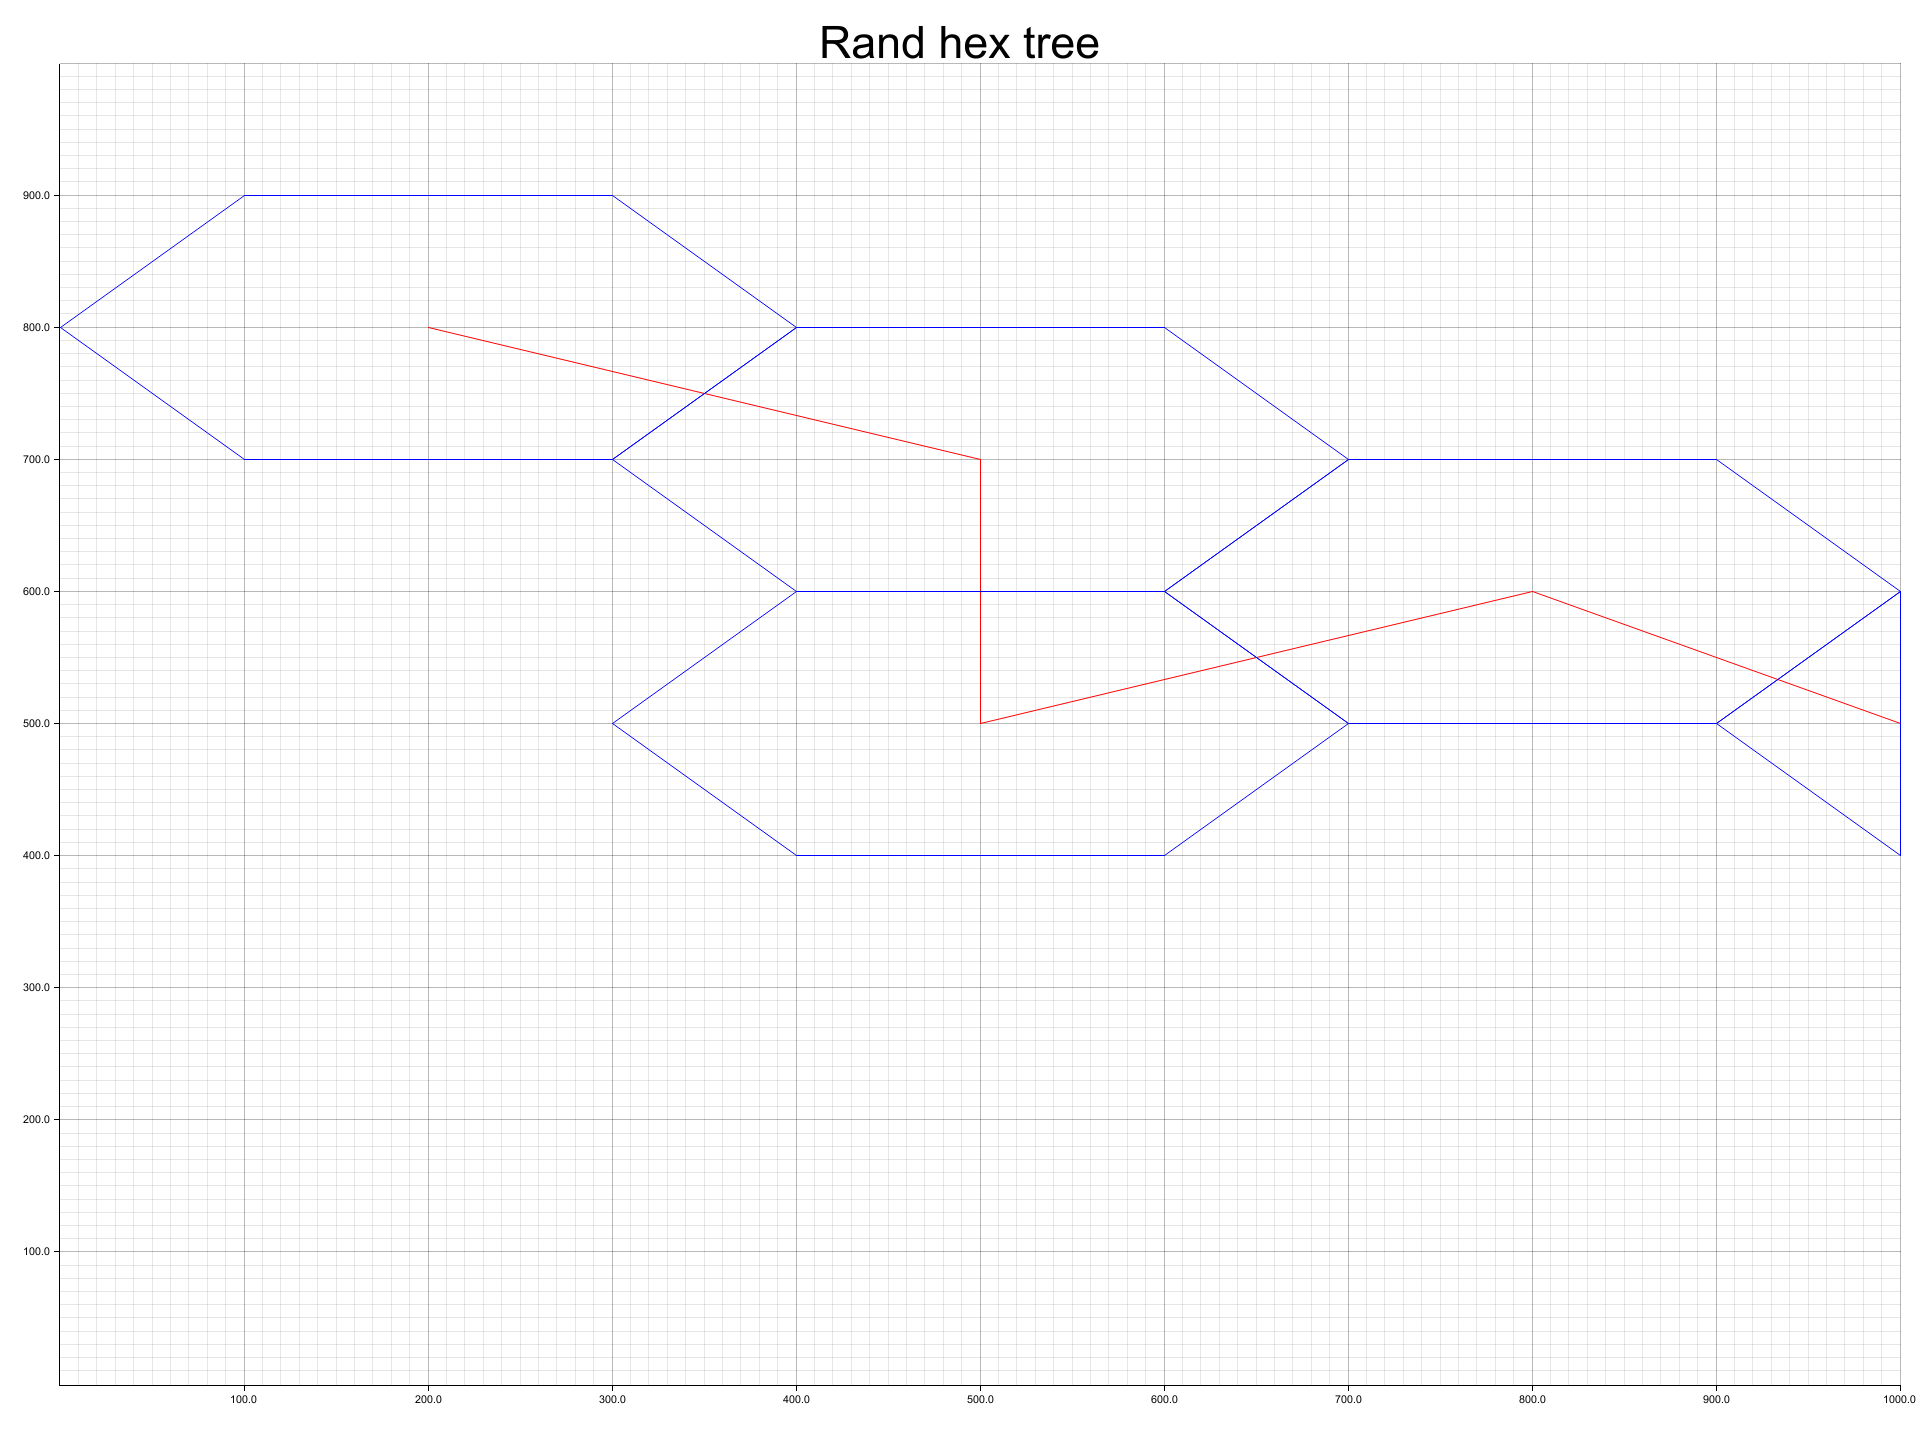
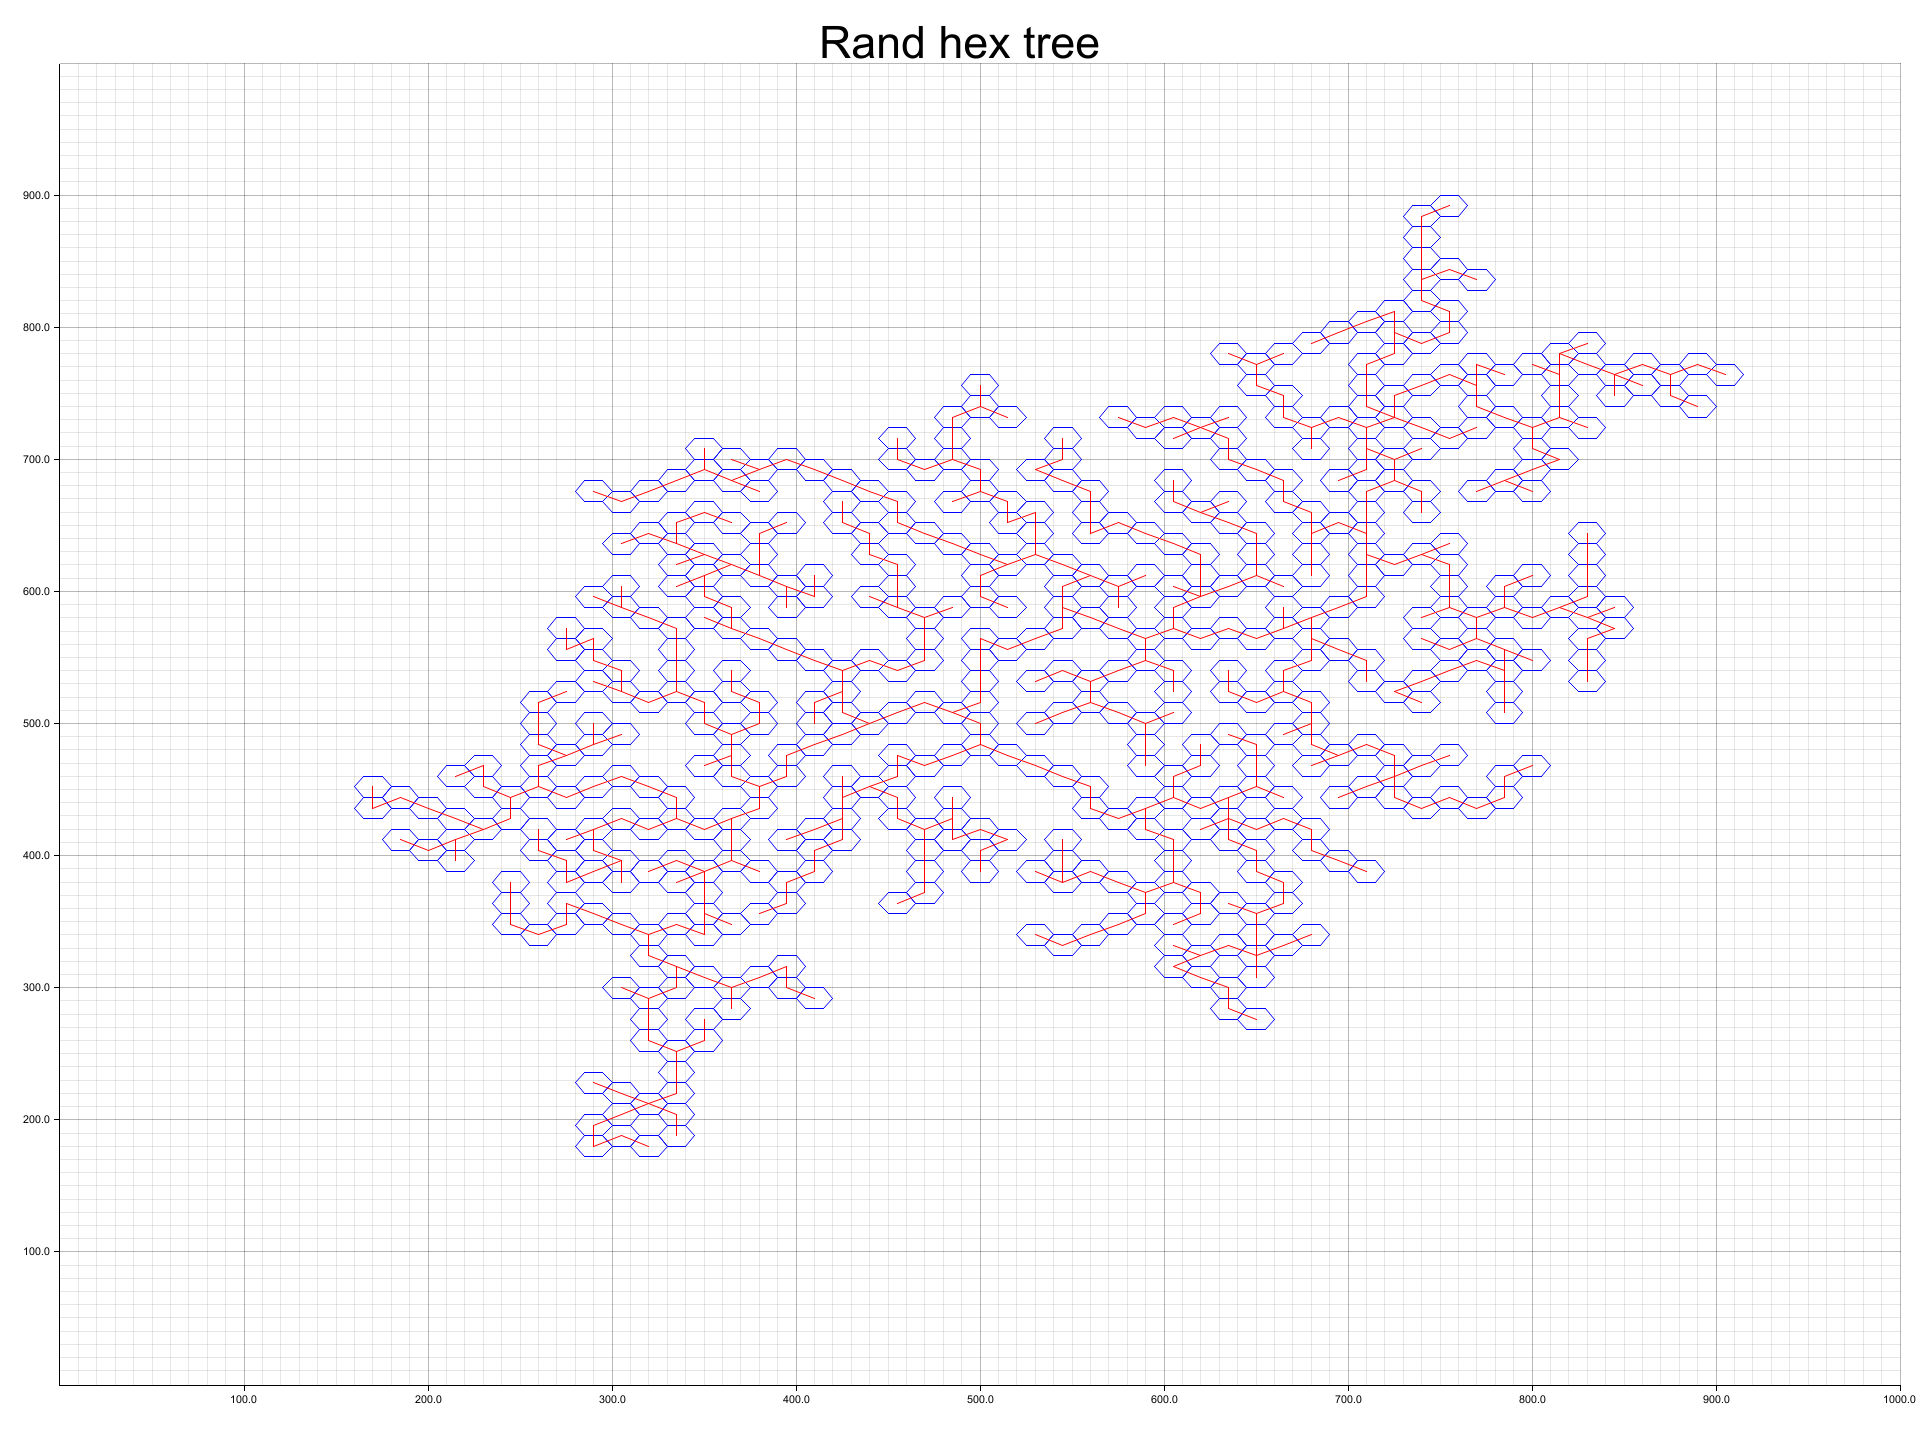
rand tree 0.2.1

diff --git a/src/main.rs b/src/main.rs
@@ -1,5 +1,8 @@
+use glam::Vec2;
+use hex_field::algo::rand_tree::{RandHexTree, MappedTree};
 use hex_field::*;
 use plotters::prelude::*;
+use rand::prelude::*;
 
 trait ToLine {
     fn to_line(&self) -> Vec<(f32, f32)>;
@@ -8,54 +11,50 @@ trait ToLine {
 
 impl ToLine for Hex {
     fn to_line(&self) -> Vec<(f32, f32)> {
-        vec![
-            self.top_left(),
-            self.top_right(),
-            self.right(),
-            self.bot_right(),
-            self.bot_left(),
-            self.left(),
-            self.top_left(),
-        ]
+        let mut v: Vec<(f32, f32)> = self.vertices().map(|v| v.into()).collect();
+        v.push(self.left_top_vert().into());
+        v
     }
 
     fn link_to(&self, other: &Self) -> Vec<(f32, f32)> {
-        vec![self.center(), other.center()]
+        vec![self.center().into(), other.center().into()]
     }
 }
 
 fn draw_node(
     chart: &mut ChartContext<BitMapBackend, RangedCoord<RangedCoordf32, RangedCoordf32>>,
-    node: &algo::rand_tree::Node<Hex>,
+    tree: &MappedTree<Hex>,
+    node: &Hex,
 ) -> Result<(), Box<dyn std::error::Error>> {
-    chart.draw_series(LineSeries::new(node.data.to_line(), &BLUE))?;
-    for n in node.iter() {
-        chart.draw_series(LineSeries::new(node.data.link_to(&n.data), &RED))?;
-        draw_node(chart, n)?;
+    chart.draw_series(LineSeries::new(node.to_line(), &BLUE))?;
+    let children = tree.children(node);
+    for child in children {
+        draw_node(chart, tree, child)?;
+        chart.draw_series(LineSeries::new(node.link_to(child), &RED))?;
     }
 
     Ok(())
 }
 
-fn draw_line(
-    chart: &mut ChartContext<BitMapBackend, RangedCoord<RangedCoordf32, RangedCoordf32>>,
-    p1: (f32, f32),
-    p2: (f32, f32),
-) -> Result<(), Box<dyn std::error::Error>> {
-    chart.draw_series(LineSeries::new(vec![p1, p2], &BLUE))?;
-    Ok(())
-}
-
-fn draw_lines_to_vertices(
-    chart: &mut ChartContext<BitMapBackend, RangedCoord<RangedCoordf32, RangedCoordf32>>,
-    p: (f32, f32),
-    hex: &Hex,
-) -> Result<(), Box<dyn std::error::Error>> {
-    for v in &hex.points() {
-        draw_line(chart, *v, p)?;
-    }
-    Ok(())
-}
+// fn draw_line(
+//     chart: &mut ChartContext<BitMapBackend, RangedCoord<RangedCoordf32, RangedCoordf32>>,
+//     p1: (f32, f32),
+//     p2: (f32, f32),
+// ) -> Result<(), Box<dyn std::error::Error>> {
+//     chart.draw_series(LineSeries::new(vec![p1, p2], &BLUE))?;
+//     Ok(())
+// }
+//
+// fn draw_lines_to_vertices(
+//     chart: &mut ChartContext<BitMapBackend, RangedCoord<RangedCoordf32, RangedCoordf32>>,
+//     p: (f32, f32),
+//     hex: &Hex,
+// ) -> Result<(), Box<dyn std::error::Error>> {
+//     for v in &hex.points() {
+//         draw_line(chart, *v, p)?;
+//     }
+//     Ok(())
+// }
 
 fn main() -> Result<(), Box<dyn std::error::Error>> {
     let root = BitMapBackend::new("twoscale.png", (1920, 1440)).into_drawing_area();
@@ -72,19 +71,25 @@ fn main() -> Result<(), Box<dyn std::error::Error>> {
 
     chart.configure_mesh().draw()?;
 
+
+    let center = Vec2::new(ax / 2f32, ax / 2f32);
     let conf = Config {
-        width: 400f32,
-        height: 200f32,
-        offset_x: ax / 2f32,
-        offset_y: ax / 2f32,
+        hex_size: Vec2::new(20f32, 16f32),
+        offset: center,
     };
     let hf = HexField::new(conf);
-    let tree = algo::rand_tree::generate(&hf, 5, (ax / 2f32, ax / 2f32), 0.6f32, 1);
+    let hex = Hex::new(
+        hf.hex_center_by_containing_point(center),
+        hf.hex_size(),
+    );
 
-    draw_node(&mut chart, &tree)?;
+    let mut tree = algo::rand_tree::RandHexTree::new(hex, 0.4f64, StdRng::seed_from_u64(4));
+    tree.add_hexes(540);
+    println!("Calculated!!!");
+    draw_node(&mut chart, &tree.tree(), &tree.tree().root().unwrap())?;
 
-    let c = tree.root().data.clone();
-    let (t, tr) = (c.top_hex(), c.top_right_hex());
+    // let c = tree.root().data.clone();
+    // let (t, tr) = (c.top_hex(), c.top_right_hex());
     // chart.draw_series(LineSeries::new(
     //     (0..=200).map(|t| {
     //         let angle = (t as f32) / 200f32 * 2f32 * std::f32::consts::PI;
